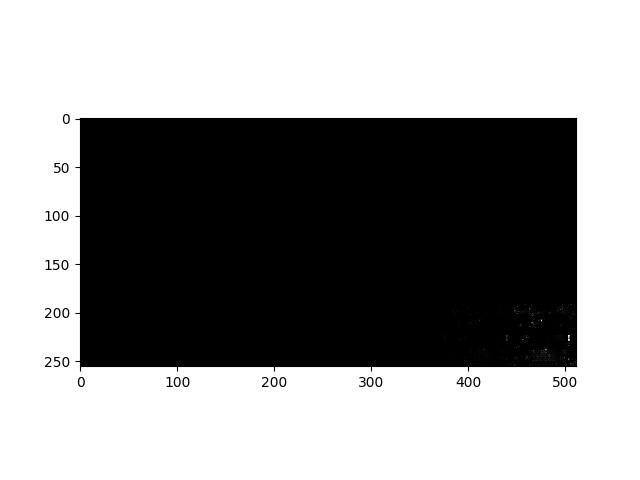
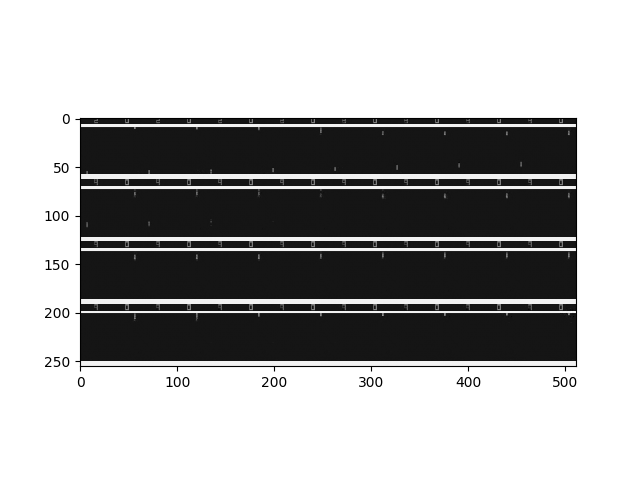
comparing transition models

diff --git a/3dvae/3dvae.py b/3dvae/3dvae.py
@@ -66,19 +66,19 @@ def train_simulator():
     meta_ae.close_session()
     #ae.close_session()
 
-    #simulator = Transition(model_fname='/home/ronnypetson/models/Vanilla_transition')
-    simulator = TransitionWGAN(model_fname='/home/ronnypetson/models/Transition_WGAN')
-    for epoch in range(480):
+    simulator = Transition(model_fname='/home/ronnypetson/models/Vanilla_transition')
+    #simulator = TransitionWGAN(model_fname='/home/ronnypetson/models/Transition_WGAN')
+    for epoch in range(500):
         for iter in range(num_sample // batch_size):
             # Obtina a batch
             batch = get_batch(state_pairs)
             x = [b[0] for b in batch]
             x_ = [b[1] for b in batch]
             # Execute the forward and the backward pass and report computed losses
-            g_loss, d_loss = simulator.run_single_step(x,x_)
+            g_loss = simulator.run_single_step(x,x_) # , d_loss
         if epoch%30==29:
             simulator.save_model()
-        print('[Epoch {}] Loss: {} {}'.format(epoch, g_loss, d_loss))
+        print('[Epoch {}] Loss: {}'.format(epoch, g_loss))
 
     x = state_pairs[100,0]
     sim_x = [x]

diff --git a/3dvae/transition.py b/3dvae/transition.py
@@ -77,11 +77,12 @@ class TransitionWGAN(object):
         def generator_(x):
             with tf.variable_scope('generator'):
                 d1 = tf.layers.dense(x, 512, activation=tf.nn.relu)
-                x_hat = tf.layers.dense(d1, self.input_dim[1], activation=None) # tf.nn.relu
+                x_hat = tf.layers.dense(d1, self.input_dim[1], activation=tf.nn.sigmoid) # tf.nn.relu
             return x_hat
         # Discriminator
         def discriminator_(x,reuse):
             with tf.variable_scope('discriminator',reuse=reuse):
+                d2 = tf.layers.dense(x, 128, activation=tf.nn.relu)
                 d2 = tf.layers.dense(x, 32, activation=tf.nn.relu)
                 d = tf.layers.dense(d2, 1, activation=None)
             return d
